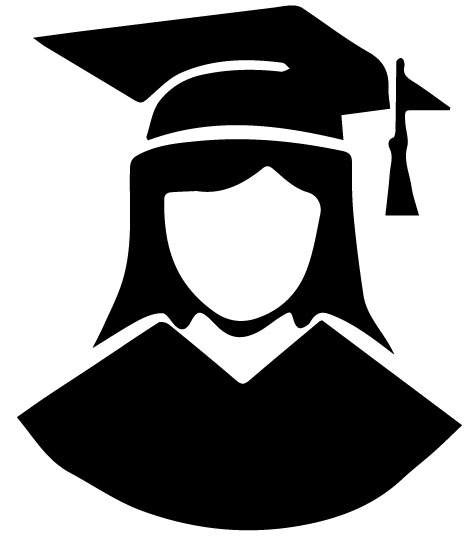
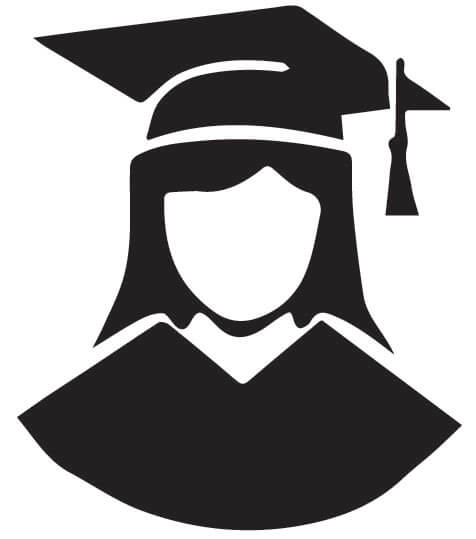
Compressed images and async tags added

diff --git a/index.html b/index.html
@@ -6,10 +6,10 @@
     <meta http-equiv="x-ua-compatible" content="ie=edge">
 	<link rel="stylesheet" href="https://maxcdn.bootstrapcdn.com/bootstrap/3.3.7/css/bootstrap.min.css">
 	<!-- Google Fonts -->
-	<link href='http://fonts.googleapis.com/css?family=Open+Sans' rel='stylesheet' type='text/css'>
-  	<script src="https://ajax.googleapis.com/ajax/libs/jquery/1.12.4/jquery.min.js"></script>
- 	<script src="https://maxcdn.bootstrapcdn.com/bootstrap/3.3.7/js/bootstrap.min.js"></script>
+	<!-- <link href='http://fonts.googleapis.com/css?family=Open+Sans' rel='stylesheet' type='text/css'> -->
 	<link rel="stylesheet" type="text/css" href="style.css">
+  	<script async src="https://ajax.googleapis.com/ajax/libs/jquery/1.12.4/jquery.min.js"></script>
+ 	<script async src="https://maxcdn.bootstrapcdn.com/bootstrap/3.3.7/js/bootstrap.min.js"></script>
 	<title>Credential Admission Information</title>
 </head>
 <body>
